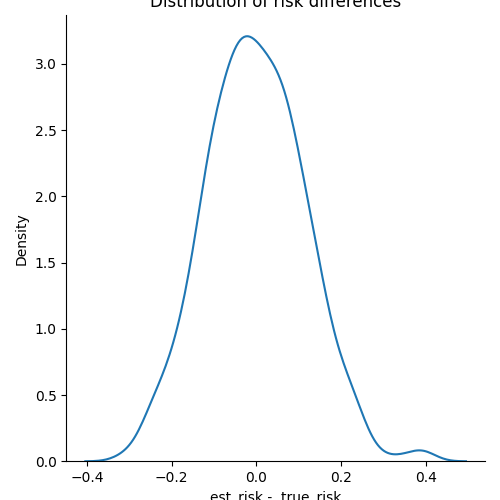
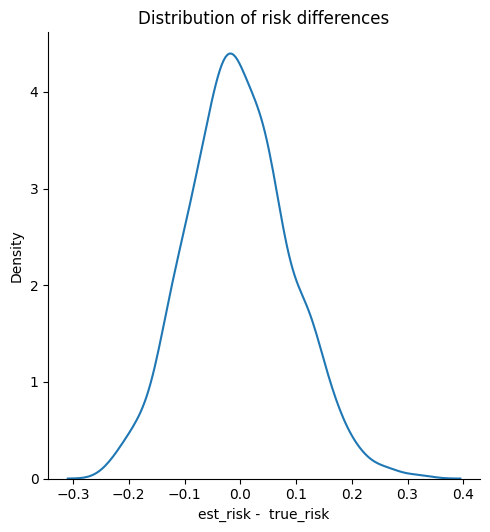
Model loss estimator variability part finished

diff --git a/homework-02/holdout_estimation.py b/homework-02/holdout_estimation.py
@@ -1,12 +1,13 @@
 import numpy as np
-
+import matplotlib.pyplot as plt
+import seaborn as sns
 from data_gen import toy_data, log_loss
 from sklearn.linear_model import LogisticRegression
 
 # we investigate how our test data risk estimate varies with test data
 # 1. generate toy dataset
-toy_dataset = toy_data(50, seed=1)
-huge_dataset = toy_data(100000, seed=0)
+toy_dataset = toy_data(50, seed=1000)
+huge_dataset = toy_data(100000, seed=1001)
 
 # 2. train model h, using linear regression
 X = np.vstack(toy_dataset['x'].to_numpy())
@@ -26,12 +27,13 @@ def model_risks(y, probabilities, classes):
     """
     model_risks = []
     for i in range(len(y)):
-        model_risks.append(log_loss(y[i], probabilities[i][classes == y[i]]))
+        a = 1 if y[i] else 0
+        model_risks.append(log_loss(y[i], probabilities[i][1]))
     return model_risks
 
 # compute the true risk proxy using huge_dataset
-# true_risk_proxy = model_risk(huge_y, huge_probabilities, h.classes_)
-true_risk_proxy = 0.93415131
+true_risks = model_risks(huge_y, huge_probabilities, h.classes_)
+true_risk_proxy = np.mean(true_risks)
 
 
 # 4. For 1000 times generate toy dataset with 50 samples, estimate the risk of
@@ -42,14 +44,15 @@ def standard_error_of_model_risk(risks):
     """
     Returns the standard error of the model risk estimate
     """
-    return np.std(risks)
+    return np.std(risks) / np.sqrt(len(risks))
 
 def confidence_interval_of_model_risk(risks):
     """
     Returns the 95% confidence interval of the model risk
     """
-    return (np.mean(risks) - 1.96 * standard_error_of_model_risk(risks), 
-            np.mean(risks) + 1.96 * standard_error_of_model_risk(risks))
+    std_error = standard_error_of_model_risk(risks)
+    mean_risk = np.mean(risks)
+    return (mean_risk - 1.96 * std_error, mean_risk + 1.96 * std_error)
     
 def average_model_risk(risks):
     """
@@ -57,55 +60,87 @@ def average_model_risk(risks):
     """
     return np.mean(risks)
 
+def calculate_baseline_true_risk(true_risks, true_risk_proxy):
+    """
+    Compute 0.5 - 0.5 risk
+    """
+    num_risks_below_proxy = sum(risk < true_risk_proxy for risk in true_risks)
+    num_risks_above_proxy = sum(risk >= true_risk_proxy for risk in true_risks)
+    if num_risks_below_proxy >= num_risks_above_proxy:
+        return (num_risks_below_proxy / len(true_risks))
+    else:
+        return (num_risks_above_proxy / len(true_risks))
+
+
+def median_standard_error(estimates):
+    """Calculates the median standard error for a list of estimates."""
+    
+    # Calculate the standard error for each estimate
+    standard_errors = np.std(estimates) / np.sqrt(len(estimates))
+    
+    # Calculate the median of the standard errors
+    median_standard_error = np.median(standard_errors)
+    
+    return median_standard_error
+
+
+def is_in_ci(risks):
+    """
+    Computes the % of times the true risk proxy 
+    is in the 95% confidence interval
+    """
+    contains_risk = 0
+    for (_, in_ci) in risks:
+        if in_ci:
+            contains_risk += 1
+    return 100 * contains_risk / len(risks)
 
 
 all_risks = []
 
 for i in range(1000):
-    toy_dataset = toy_data(50, seed=i)
-    X = np.vstack(toy_dataset['x'].to_numpy())
-    y = np.array(toy_dataset['y'])
+    generated_toy_dataset = toy_data(50, seed=i)
+    X = np.vstack(generated_toy_dataset['x'].to_numpy())
+    y = np.array(generated_toy_dataset['y'])
     probabilities = h.predict_proba(X)
     risks = model_risks(y, probabilities, h.classes_)
+
     ci = confidence_interval_of_model_risk(risks)
 
     if true_risk_proxy > ci[0] and true_risk_proxy < ci[1]:
-        all_risks.append(average_model_risk(risks))
+        all_risks.append((average_model_risk(risks), True))
+    else:
+        all_risks.append((average_model_risk(risks), False))
 
 
 # 5. Find results
-differences = np.array(all_risks) - np.array(len(all_risks) * [true_risk_proxy])
+differences = np.array(all_risks)[:,0] - np.array(len(all_risks) * [true_risk_proxy])
 
 # Plot the density of differences
-import matplotlib.pyplot as plt
-import seaborn as sns
-plt.figure(figsize=(10, 6))
+plt.figure(figsize=(8, 6))
 sns.displot(differences, kind='kde')
 plt.title('Distribution of risk differences')
 plt.xlabel('est_risk -  true_risk')
 plt.ylabel('Density')
-plt.savefig('homework-02/risk_differences.png')
+plt.savefig('homework-02/risk_differences.png', bbox_inches='tight')
 
 # Compute the true risk proxy
-true_risk_proxy = 0.93415131
+print(f'True risk proxy: {true_risk_proxy}')
 
 # Compute the average difference between the estimate and true risk
 average_difference = np.mean(differences)
+print(f'Mean difference: {abs(average_difference)}')
 
 # Compute the true risk of always making 0.5 - 0.5 predictions
+true_risk_of_05 = calculate_baseline_true_risk(true_risks, true_risk_proxy)
+print(f'0.5-0.5 baseline true risk: {true_risk_of_05}')
 
 
 # Compute the median standard error of the estimates
-
+med_se = median_standard_error(np.array(risks))
+print(f'Median standard error: {med_se}')
 
 # Compute the % of times the true risk proxy is in the 95% confidence interval
-
-
-def mse(y, y_hat):
-    """
-    Returns the mean squared error between y and y_hat
-    """
-    return np.mean((y - y_hat) ** 2)
-
-
+percentage = is_in_ci(all_risks)
+print(f'Percentage of 95CI that contain the true risk proxy: {percentage}')
 

diff --git a/homework-02/homework_02.tex b/homework-02/homework_02.tex
@@ -20,6 +20,8 @@ First we generated the toy dataset of 10000 rows. As we were coding this homewor
 
 We generated 100.000 rows of data and stated that it is enough, to safely reduce the error to the first decimal digit. This is because the data is generated from normal distribution (each column of the data). 
 
+TODO: finish explanation why risk only differs by one digit.
+
 \section{Holdout estimation}
 
 \subsection{Model loss estimator variability due to test data variability}
